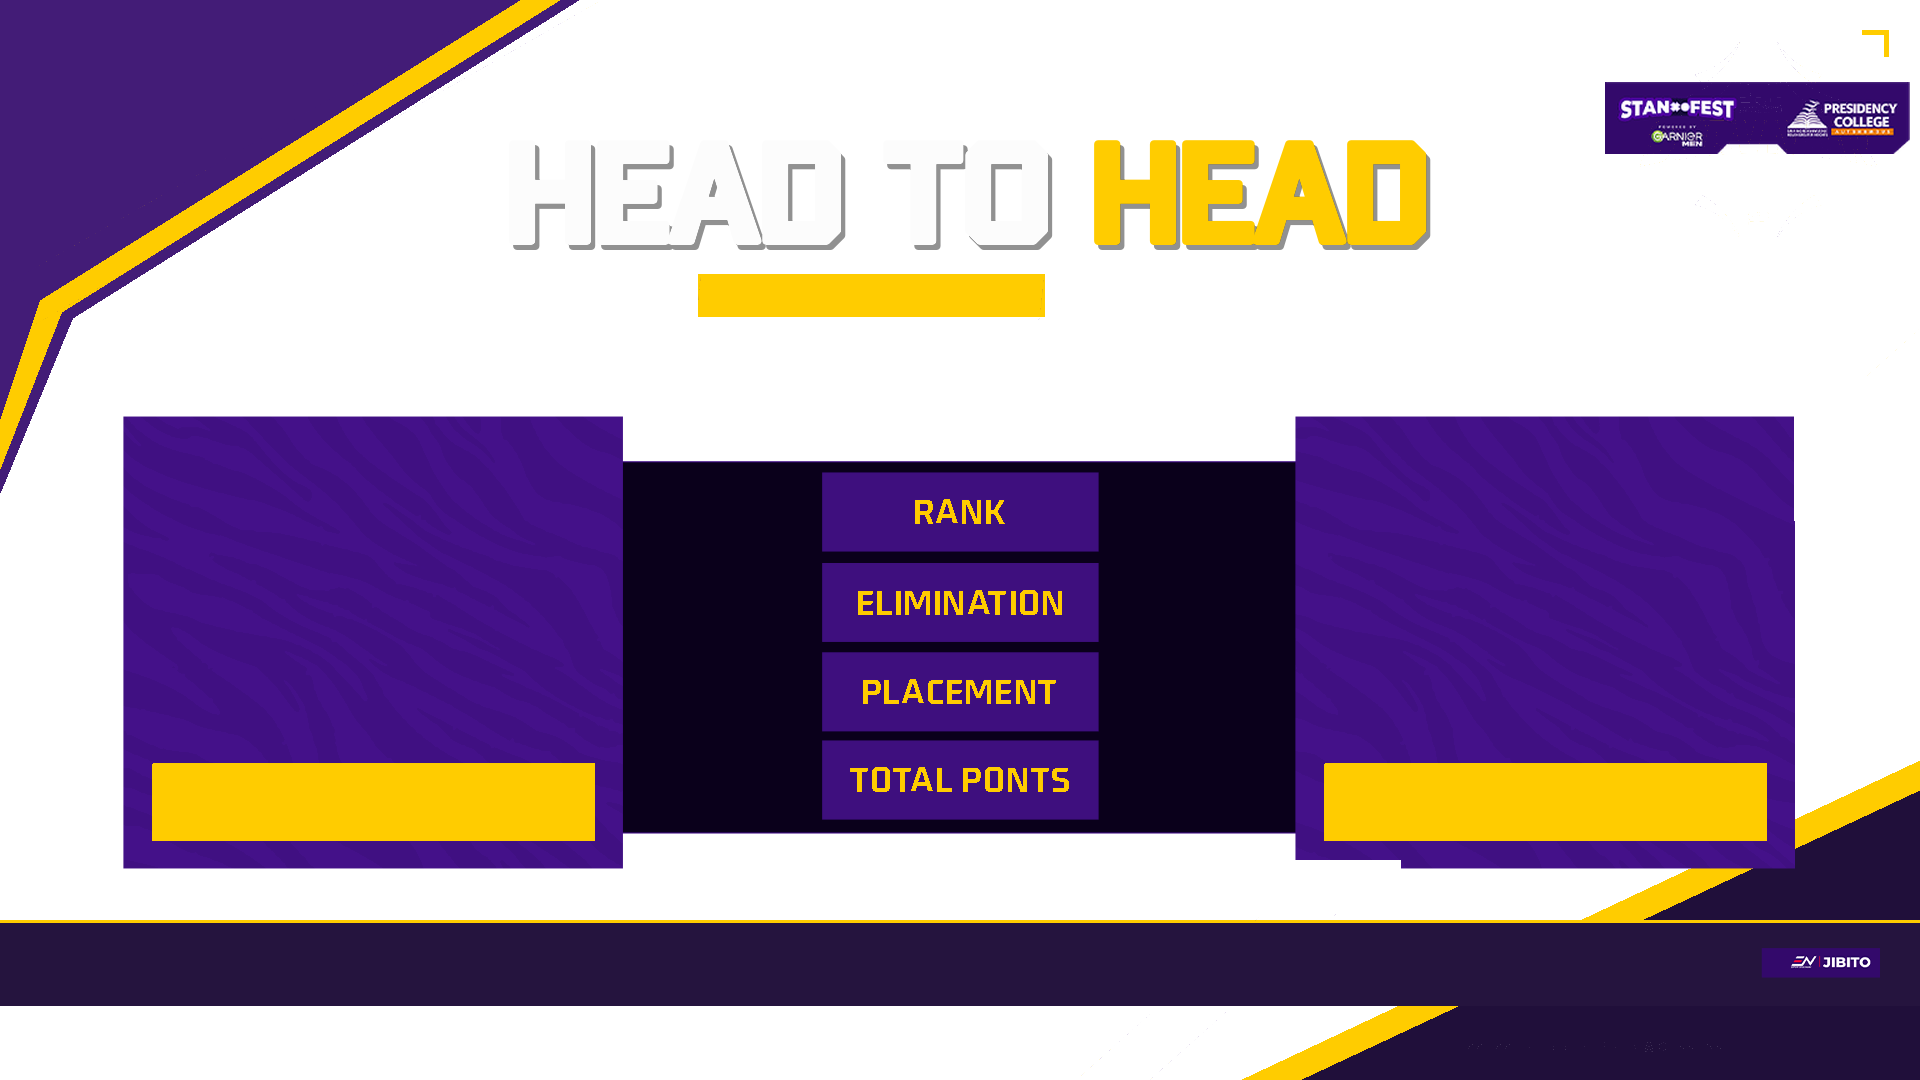
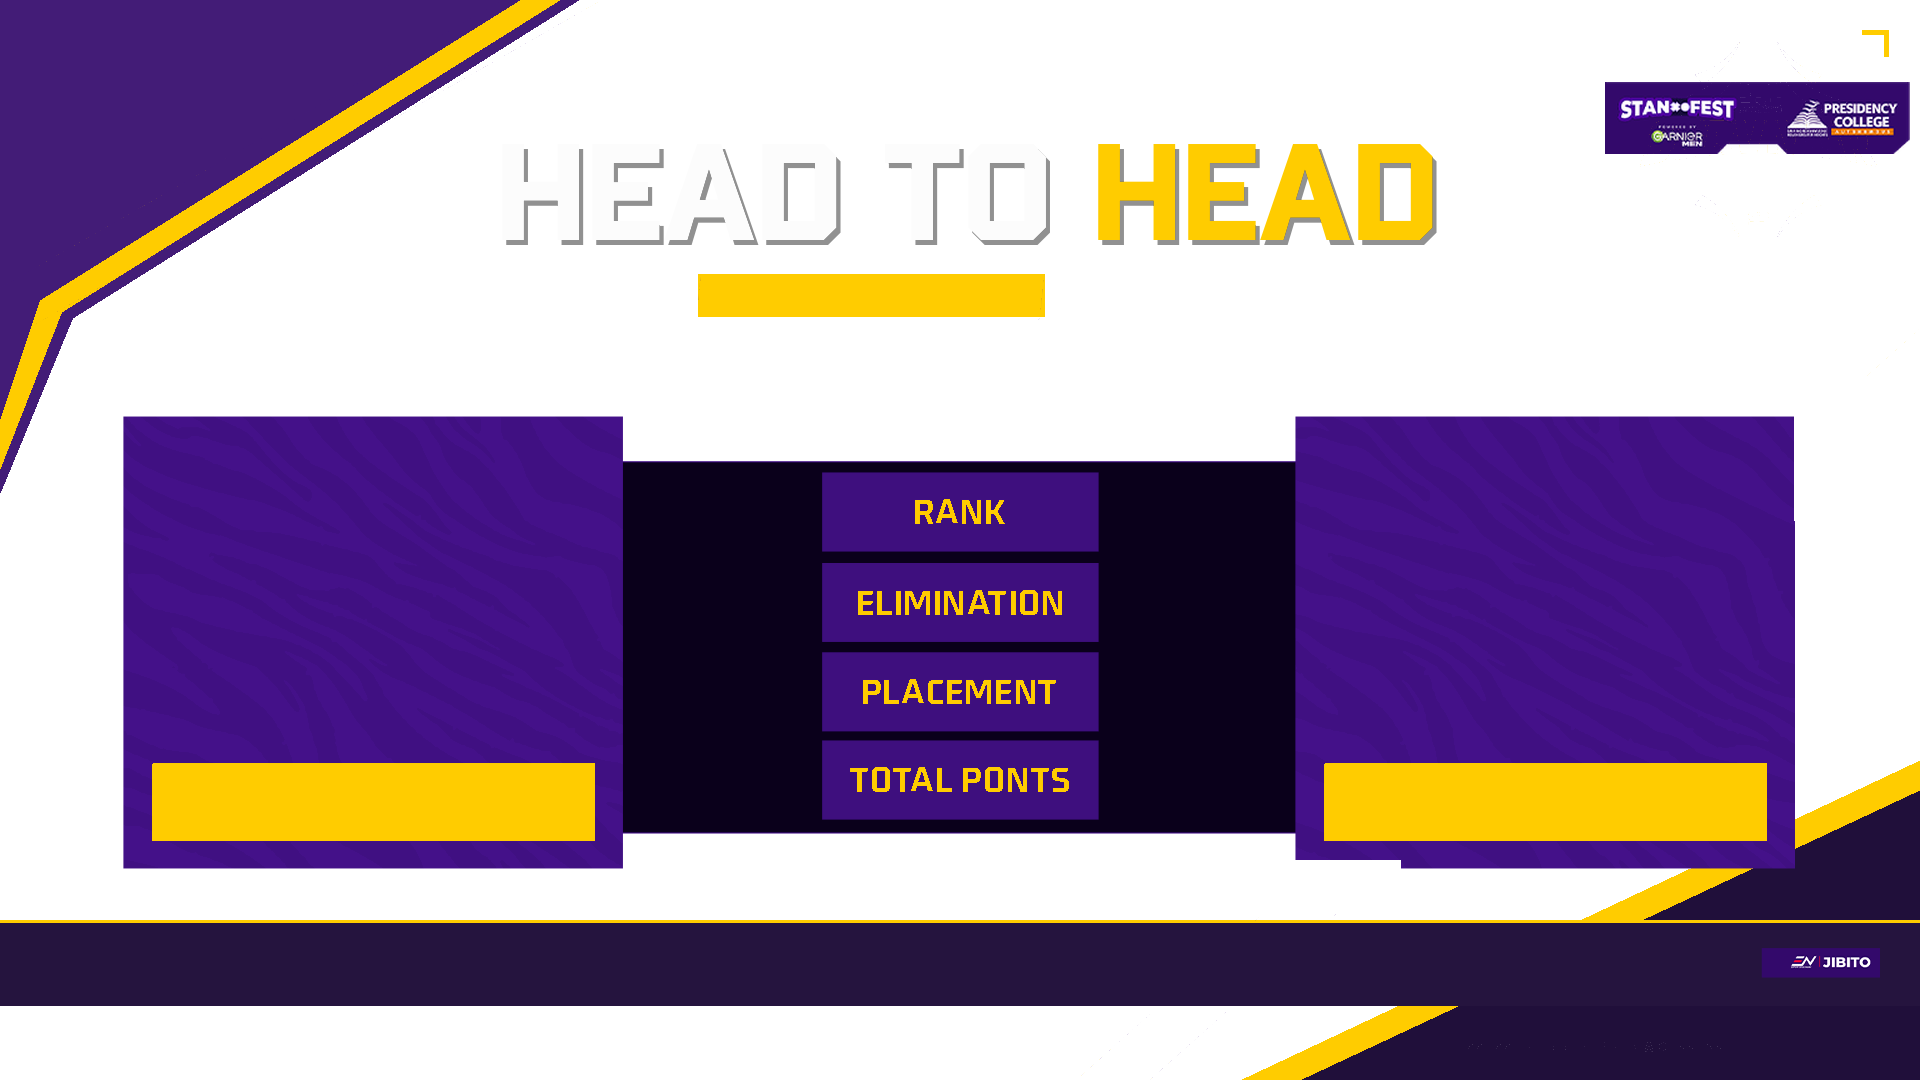
Free Fire: the post-match titles in the real Winner Sans Bold
RNX and ENFEA STAN: the big titles (the pages' ff-title, and those make_rnx_art / make_enfea_art draw into the screens) in Winner Sans Bold, now that it is installed -- 'Winner Sans Bold', from where it is installed or overlay/assets/fonts/winner-sans, else Supermolot Black. The in-game cards keep 'Winner Sans B' (Medium made bold): the designer's demos are narrower and heavier than Winner Sans Bold, and it matches them closer.

Changed region(s): [[0.25, 0.1222, 0.75, 0.2444]]

diff --git a/overlay/ff_theme.css b/overlay/ff_theme.css
@@ -20,6 +20,9 @@
 @font-face { font-family:'GNG Display'; src:url('assets/freefire/gng/font/Sddystopiandemo-GO7xa.otf') format('opentype'); font-weight:100 900; }
 @font-face{font-family:'Winner Sans M';src:local('WinnerSans-Medium'),local('WinnerSans Medium'),local('Winner Sans Medium'),url('assets/fonts/winner-sans/WinnerSans-Medium.otf') format('opentype'),url('assets/fonts/TTSupermolotNeueTrial-Medium.ttf') format('truetype');font-weight:100 900;font-display:block;}
 @font-face{font-family:'Winner Sans B';src:local('WinnerSans-Medium'),local('WinnerSans Medium'),local('Winner Sans Medium'),url('assets/fonts/winner-sans/WinnerSans-Medium.otf') format('opentype'),url('assets/fonts/TTSupermolotNeueTrial-Medium.ttf') format('truetype');font-weight:500;font-display:block;}
+/* the post-match titles: the real Bold, there being no demo of them to match (the cards' bold is
+   'Winner Sans B', sized to the designer's demos) */
+@font-face{font-family:'Winner Sans Bold';src:local('WinnerSans-Bold'),local('Winner Sans Bold'),url('assets/fonts/winner-sans/WinnerSans-Bold.otf') format('opentype'),url('assets/fonts/TTSupermolotNeueTrial-Black.ttf') format('truetype');font-weight:100 900;font-display:block;}
 
 
 :root{
@@ -107,7 +110,7 @@ body.gng{ --ss3-red:#5c2d12; --ss3-label:#ffa976; --ss3-yellow:#ffa976; --ss3-ba
 body.rnx{ --ss3-red:#600c84; --ss3-label:#fcd02c; --ss3-yellow:#fcd02c; --ss3-bar:#fcd02c; --ss3-black:#22062f;
   --rnx-gold:#fcd02c; --rnx-violet:#500864; --rnx-ink:#ffffff; }
 .rnx .ff-frame{background-image:url('assets/freefire/kit/rnx_frame.png');}
-.rnx .ff-title{font-family:'Winner Sans B',Arial,sans-serif;font-style:normal;color:#ffffff;background:none;
+.rnx .ff-title{font-family:'Winner Sans Bold',Arial,sans-serif;font-style:normal;color:#ffffff;background:none;
   -webkit-background-clip:border-box;background-clip:border-box;letter-spacing:.01em;
   text-shadow:0 4px 0 rgba(0,0,0,.35);}
 .rnx .ff-title .w2{color:var(--rnx-gold);}
@@ -128,7 +131,7 @@ body.rnx{ --ss3-red:#600c84; --ss3-label:#fcd02c; --ss3-yellow:#fcd02c; --ss3-ba
 body.enfea{ --ss3-red:#33096b; --ss3-label:#ffcc00; --ss3-yellow:#ffcc00; --ss3-bar:#ffcc00; --ss3-black:#12002e;
   --enf-gold:#ffcc00; --enf-purple:#33096b; --enf-ink:#ffffff; }
 .enfea .ff-frame{background-image:url('assets/freefire/kit/enfea_frame.png');}
-.enfea .ff-title{font-family:'Winner Sans B',Arial,sans-serif;font-style:normal;color:#ffffff;background:none;
+.enfea .ff-title{font-family:'Winner Sans Bold',Arial,sans-serif;font-style:normal;color:#ffffff;background:none;
   -webkit-background-clip:border-box;background-clip:border-box;letter-spacing:.01em;
   text-shadow:0 4px 0 rgba(0,0,0,.35);}
 .enfea .ff-title .w2{color:var(--enf-gold);}

diff --git a/overlay/assets/freefire/RNX/make_rnx_art.py b/overlay/assets/freefire/RNX/make_rnx_art.py
@@ -35,7 +35,12 @@ FONTS = os.path.join(HERE, "..", "..", "fonts")
 
 
 WINNER = os.path.join(FONTS, "winner-sans", "WinnerSans-Medium.otf")
-if os.path.exists(WINNER):
+WINNER_BOLD = os.path.join(FONTS, "winner-sans", "WinnerSans-Bold.otf")
+if os.path.exists(WINNER) and os.path.exists(WINNER_BOLD):
+    # Medium for the text, the real Bold for the titles (as the pages'
+    # 'Winner Sans Bold')
+    FONT, DISPLAY, BOLD = WINNER, WINNER_BOLD, 0
+elif os.path.exists(WINNER):
     # one face, as the pages have it: Medium, and Medium made bold
     FONT = DISPLAY = WINNER
     BOLD = 0.035            # the stroke that makes it bold, per pixel of size
@@ -376,5 +381,6 @@ if __name__ == "__main__":
                [(1794, 380), (1920, 380), (1920, 520), (1794, 520)], [(1255, 860), (1400, 860), (1400, 912), (1255, 912)]],
                title=((495, 144, 1440, 241), ["HEAD", "TO", "HEAD"]))
     drop_spot()
-    print("written with %s%s: the 12-row table, the in-game cards, the kit (rnx_frame / rnx_zebra / "
-          "rnx_roundbar), and the SS3 screens in RNX" % (os.path.basename(FONT), " (and bold)" if BOLD else ""))
+    print("written with %s / %s%s: the 12-row table, the in-game cards, the kit (rnx_frame / rnx_zebra / "
+          "rnx_roundbar), and the SS3 screens in RNX" % (os.path.basename(FONT), os.path.basename(DISPLAY),
+                                                       " (made bold)" if BOLD else ""))
